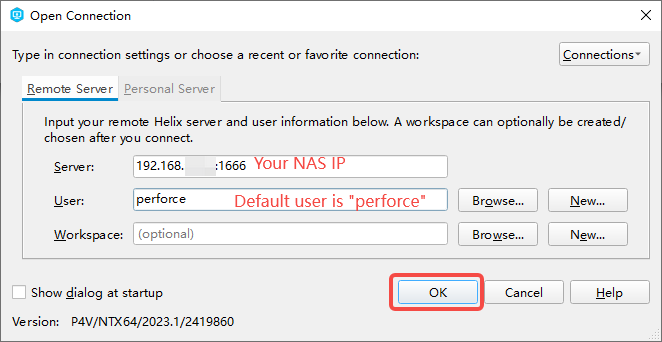
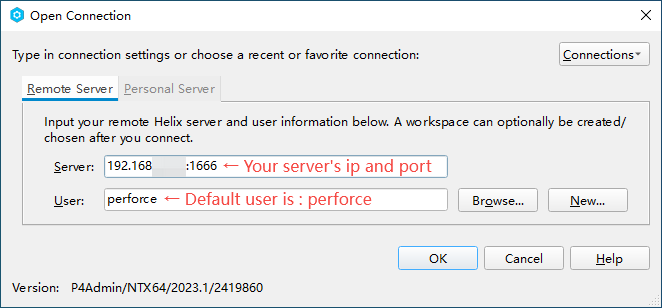
替换图片，更新文档

diff --git a/docs/HotToRunPerforceServerOnSynologyForUnrealEngine.md b/docs/HotToRunPerforceServerOnSynologyForUnrealEngine.md
@@ -8,9 +8,15 @@
 
 ## 下载Docker image
 
-在群晖的“Docker”里面，找到左侧的“映像”Tab，再点击“新增”-“从URL添加”，在弹出的界面中，粘贴下面的地址，然后“新增”按钮
+1. 打开“Docker”应用，点击左侧的“映像”Tab，再点击“新增”-“从URL添加”
 
-<https://hub.docker.com/r/zhaojunmeng/sdp-perforce-server-for-unreal-engine>
+    ![1](images/SynologyAddImage_1.png)
+
+2. 在弹出的“从 URL 添加”界面中，在“地址”部分，粘贴下面的地址，然后“新增”按钮
+
+    <https://hub.docker.com/r/zhaojunmeng/sdp-perforce-server-for-unreal-engine>
+
+    ![2](images/SynologyAddImage_2.png)
 
 ## 启动容器
 
@@ -27,6 +33,7 @@
 3. 端口界面，填写你要映射的端口号。
 
     (P4默认的端口号习惯是1666)
+
     ![4](images/RunningOnSynology_4.png)
 
 4. 存储空间设置界面，要点击“添加文件夹”
@@ -51,14 +58,17 @@
 
 >Server: 服务器的ip地址或者域名，外加之前启动容器步骤时设置的端口号，比如：1666
 >
->User: the default and the only user is "perforce"(configured in p4-protect.cfg), enter the server ip
-![1](images/P4Admin_1.png)
-After click "OK", you must change the default password for user "perforce" (because security level is set to 3).
+>User: 填写"perforce"
 
-The old password is F@stSCM! by default (configured in Dockerfile: P4_PASSWD).
+![1](images/P4Admin_1.png)
+
+点击“OK”后，会弹出修改密码界面。(security level 3会要求第一次登陆时，必须修改密码)
+
+输入old password: F@stSCM!，然后输入新密码，点击“OK”
+
 ![2](images/P4Admin_2.png)
 
-After login, you can create new depots, groups and users.
+登录成功后，就可以开始创建depot，group和user了。
 
 Enjoy!
 

diff --git a/README.md b/README.md
@@ -72,6 +72,8 @@ The old password is F@stSCM! by default (configured in Dockerfile: P4_PASSWD).
 
 After login, you can create new depots, groups and users.
 
+在群晖(NAS)上面如何运行，参考：[如何在群晖(NAS)上，部署一个为UnrealEngine定制的Perforce服务器](docs/HotToRunPerforceServerOnSynologyForUnrealEngine.md)
+
 Enjoy!
 
 ## Disclaimer
